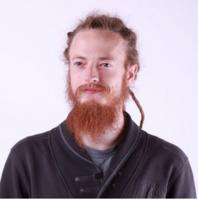
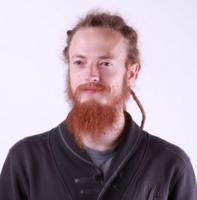
photo changed

diff --git a/ru.html b/ru.html
@@ -1107,7 +1107,7 @@ height="0" width="0" style="display:none;visibility:hidden"></iframe></noscript>
 							<a href="https://www.linkedin.com/in/lastperson/" target="_blank">
 								<div class="command-photo">
 									<div class="hover-gradient"><i class="fa fa-linkedin" aria-hidden="true"></i></div>
-									<img class="img-responsive" src="img/team/lastperson.jpg?v=1506701546" alt="Алексей Матиясевич">
+									<img class="img-responsive" src="img/team/lastperson.jpg?v=1506701874" alt="Алексей Матиясевич">
 								</div>
 							</a>
 							<div class="box-text-info no-line">
@@ -1156,7 +1156,7 @@ height="0" width="0" style="display:none;visibility:hidden"></iframe></noscript>
 					<a href="https://www.linkedin.com/in/lastperson/" target="_blank">
 						<div class="command-photo">
 							<div class="hover-gradient"><i class="fa fa-linkedin" aria-hidden="true"></i></div>
-							<img class="img-responsive" src="img/team/lastperson.jpg?v=1506701546" alt="Алексей Матиясевич">
+							<img class="img-responsive" src="img/team/lastperson.jpg?v=1506701874" alt="Алексей Матиясевич">
 						</div>
 					</a>
 					<div class="box-text-info no-line">

diff --git a/de.html b/de.html
@@ -1106,7 +1106,7 @@ height="0" width="0" style="display:none;visibility:hidden"></iframe></noscript>
 							<a href="https://www.linkedin.com/in/lastperson/" target="_blank">
 								<div class="command-photo">
 									<div class="hover-gradient"><i class="fa fa-linkedin" aria-hidden="true"></i></div>
-									<img class="img-responsive" src="img/team/lastperson.jpg?v=1506701546" alt="Oleksii Matiiasevych">
+									<img class="img-responsive" src="img/team/lastperson.jpg?v=1506701874" alt="Oleksii Matiiasevych">
 								</div>
 							</a>
 							<div class="box-text-info no-line">
@@ -1155,7 +1155,7 @@ height="0" width="0" style="display:none;visibility:hidden"></iframe></noscript>
 					<a href="https://www.linkedin.com/in/lastperson/" target="_blank">
 						<div class="command-photo">
 							<div class="hover-gradient"><i class="fa fa-linkedin" aria-hidden="true"></i></div>
-							<img class="img-responsive" src="img/team/lastperson.jpg?v=1506701546" alt="Oleksii Matiiasevych">
+							<img class="img-responsive" src="img/team/lastperson.jpg?v=1506701874" alt="Oleksii Matiiasevych">
 						</div>
 					</a>
 					<div class="box-text-info no-line">

diff --git a/en.html b/en.html
@@ -1106,7 +1106,7 @@ height="0" width="0" style="display:none;visibility:hidden"></iframe></noscript>
 							<a href="https://www.linkedin.com/in/lastperson/" target="_blank">
 								<div class="command-photo">
 									<div class="hover-gradient"><i class="fa fa-linkedin" aria-hidden="true"></i></div>
-									<img class="img-responsive" src="img/team/lastperson.jpg?v=1506701546" alt="Oleksii Matiiasevych">
+									<img class="img-responsive" src="img/team/lastperson.jpg?v=1506701874" alt="Oleksii Matiiasevych">
 								</div>
 							</a>
 							<div class="box-text-info no-line">
@@ -1155,7 +1155,7 @@ height="0" width="0" style="display:none;visibility:hidden"></iframe></noscript>
 					<a href="https://www.linkedin.com/in/lastperson/" target="_blank">
 						<div class="command-photo">
 							<div class="hover-gradient"><i class="fa fa-linkedin" aria-hidden="true"></i></div>
-							<img class="img-responsive" src="img/team/lastperson.jpg?v=1506701546" alt="Oleksii Matiiasevych">
+							<img class="img-responsive" src="img/team/lastperson.jpg?v=1506701874" alt="Oleksii Matiiasevych">
 						</div>
 					</a>
 					<div class="box-text-info no-line">

diff --git a/es.html b/es.html
@@ -1106,7 +1106,7 @@ height="0" width="0" style="display:none;visibility:hidden"></iframe></noscript>
 							<a href="https://www.linkedin.com/in/lastperson/" target="_blank">
 								<div class="command-photo">
 									<div class="hover-gradient"><i class="fa fa-linkedin" aria-hidden="true"></i></div>
-									<img class="img-responsive" src="img/team/lastperson.jpg?v=1506701546" alt="Oleksii Matiiasevych">
+									<img class="img-responsive" src="img/team/lastperson.jpg?v=1506701874" alt="Oleksii Matiiasevych">
 								</div>
 							</a>
 							<div class="box-text-info no-line">
@@ -1155,7 +1155,7 @@ height="0" width="0" style="display:none;visibility:hidden"></iframe></noscript>
 					<a href="https://www.linkedin.com/in/lastperson/" target="_blank">
 						<div class="command-photo">
 							<div class="hover-gradient"><i class="fa fa-linkedin" aria-hidden="true"></i></div>
-							<img class="img-responsive" src="img/team/lastperson.jpg?v=1506701546" alt="Oleksii Matiiasevych">
+							<img class="img-responsive" src="img/team/lastperson.jpg?v=1506701874" alt="Oleksii Matiiasevych">
 						</div>
 					</a>
 					<div class="box-text-info no-line">

diff --git a/ja.html b/ja.html
@@ -1106,7 +1106,7 @@ height="0" width="0" style="display:none;visibility:hidden"></iframe></noscript>
 							<a href="https://www.linkedin.com/in/lastperson/" target="_blank">
 								<div class="command-photo">
 									<div class="hover-gradient"><i class="fa fa-linkedin" aria-hidden="true"></i></div>
-									<img class="img-responsive" src="img/team/lastperson.jpg?v=1506701546" alt="Oleksii Matiiasevych">
+									<img class="img-responsive" src="img/team/lastperson.jpg?v=1506701874" alt="Oleksii Matiiasevych">
 								</div>
 							</a>
 							<div class="box-text-info no-line">
@@ -1155,7 +1155,7 @@ height="0" width="0" style="display:none;visibility:hidden"></iframe></noscript>
 					<a href="https://www.linkedin.com/in/lastperson/" target="_blank">
 						<div class="command-photo">
 							<div class="hover-gradient"><i class="fa fa-linkedin" aria-hidden="true"></i></div>
-							<img class="img-responsive" src="img/team/lastperson.jpg?v=1506701546" alt="Oleksii Matiiasevych">
+							<img class="img-responsive" src="img/team/lastperson.jpg?v=1506701874" alt="Oleksii Matiiasevych">
 						</div>
 					</a>
 					<div class="box-text-info no-line">

diff --git a/ko.html b/ko.html
@@ -1106,7 +1106,7 @@ height="0" width="0" style="display:none;visibility:hidden"></iframe></noscript>
 							<a href="https://www.linkedin.com/in/lastperson/" target="_blank">
 								<div class="command-photo">
 									<div class="hover-gradient"><i class="fa fa-linkedin" aria-hidden="true"></i></div>
-									<img class="img-responsive" src="img/team/lastperson.jpg?v=1506701546" alt="Oleksii Matiiasevych">
+									<img class="img-responsive" src="img/team/lastperson.jpg?v=1506701874" alt="Oleksii Matiiasevych">
 								</div>
 							</a>
 							<div class="box-text-info no-line">
@@ -1155,7 +1155,7 @@ height="0" width="0" style="display:none;visibility:hidden"></iframe></noscript>
 					<a href="https://www.linkedin.com/in/lastperson/" target="_blank">
 						<div class="command-photo">
 							<div class="hover-gradient"><i class="fa fa-linkedin" aria-hidden="true"></i></div>
-							<img class="img-responsive" src="img/team/lastperson.jpg?v=1506701546" alt="Oleksii Matiiasevych">
+							<img class="img-responsive" src="img/team/lastperson.jpg?v=1506701874" alt="Oleksii Matiiasevych">
 						</div>
 					</a>
 					<div class="box-text-info no-line">

diff --git a/pt.html b/pt.html
@@ -1106,7 +1106,7 @@ height="0" width="0" style="display:none;visibility:hidden"></iframe></noscript>
 							<a href="https://www.linkedin.com/in/lastperson/" target="_blank">
 								<div class="command-photo">
 									<div class="hover-gradient"><i class="fa fa-linkedin" aria-hidden="true"></i></div>
-									<img class="img-responsive" src="img/team/lastperson.jpg?v=1506701546" alt="Oleksii Matiiasevych">
+									<img class="img-responsive" src="img/team/lastperson.jpg?v=1506701874" alt="Oleksii Matiiasevych">
 								</div>
 							</a>
 							<div class="box-text-info no-line">
@@ -1155,7 +1155,7 @@ height="0" width="0" style="display:none;visibility:hidden"></iframe></noscript>
 					<a href="https://www.linkedin.com/in/lastperson/" target="_blank">
 						<div class="command-photo">
 							<div class="hover-gradient"><i class="fa fa-linkedin" aria-hidden="true"></i></div>
-							<img class="img-responsive" src="img/team/lastperson.jpg?v=1506701546" alt="Oleksii Matiiasevych">
+							<img class="img-responsive" src="img/team/lastperson.jpg?v=1506701874" alt="Oleksii Matiiasevych">
 						</div>
 					</a>
 					<div class="box-text-info no-line">

diff --git a/zh.html b/zh.html
@@ -1107,7 +1107,7 @@ height="0" width="0" style="display:none;visibility:hidden"></iframe></noscript>
 							<a href="https://www.linkedin.com/in/lastperson/" target="_blank">
 								<div class="command-photo">
 									<div class="hover-gradient"><i class="fa fa-linkedin" aria-hidden="true"></i></div>
-									<img class="img-responsive" src="img/team/lastperson.jpg?v=1506701546" alt="Oleksii Matiiasevych">
+									<img class="img-responsive" src="img/team/lastperson.jpg?v=1506701874" alt="Oleksii Matiiasevych">
 								</div>
 							</a>
 							<div class="box-text-info no-line">
@@ -1156,7 +1156,7 @@ height="0" width="0" style="display:none;visibility:hidden"></iframe></noscript>
 					<a href="https://www.linkedin.com/in/lastperson/" target="_blank">
 						<div class="command-photo">
 							<div class="hover-gradient"><i class="fa fa-linkedin" aria-hidden="true"></i></div>
-							<img class="img-responsive" src="img/team/lastperson.jpg?v=1506701546" alt="Oleksii Matiiasevych">
+							<img class="img-responsive" src="img/team/lastperson.jpg?v=1506701874" alt="Oleksii Matiiasevych">
 						</div>
 					</a>
 					<div class="box-text-info no-line">
